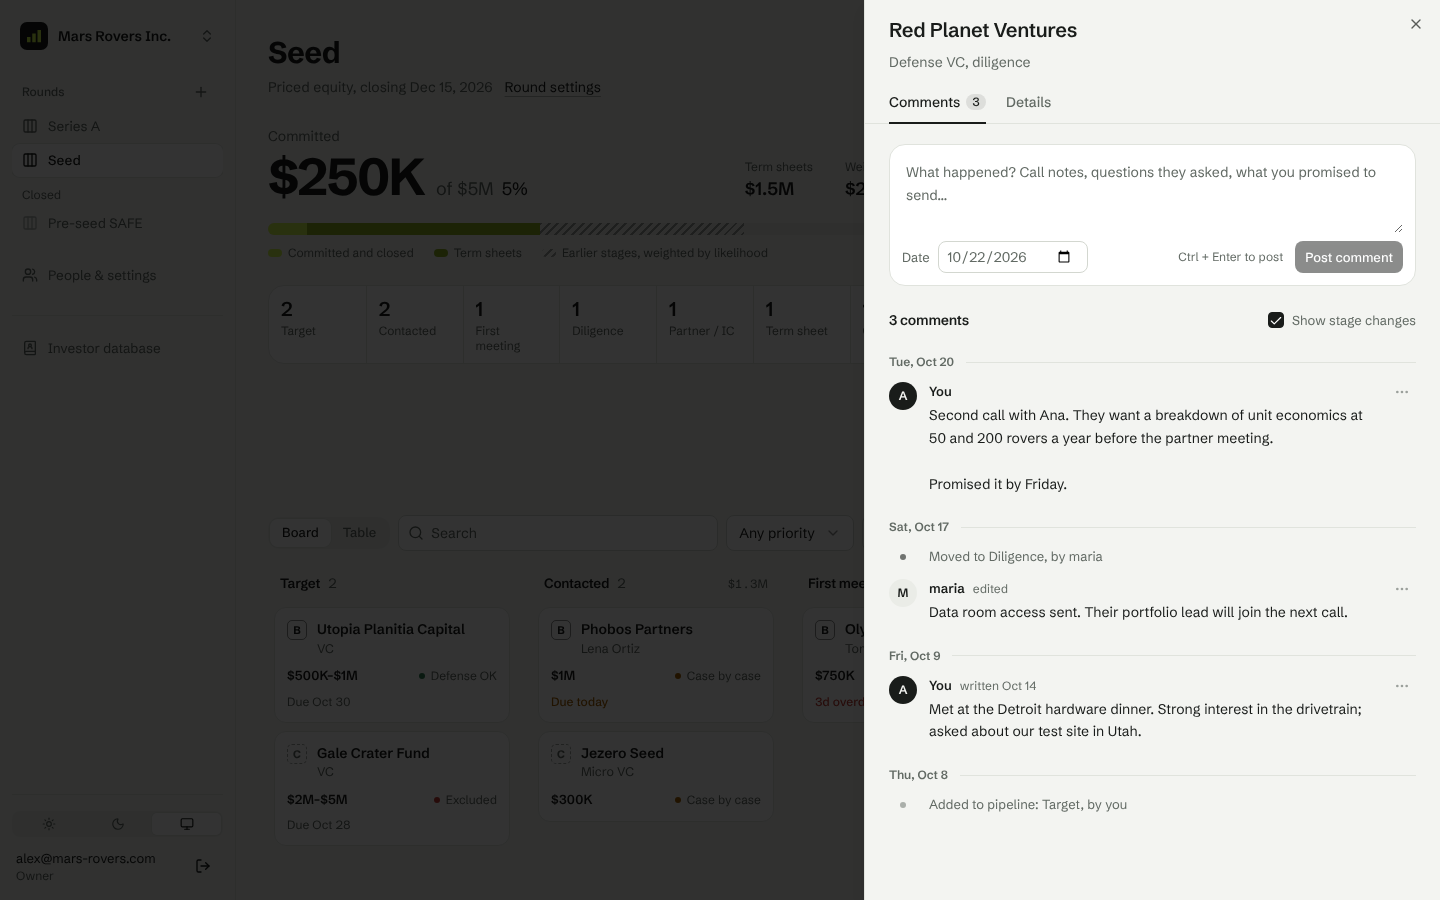
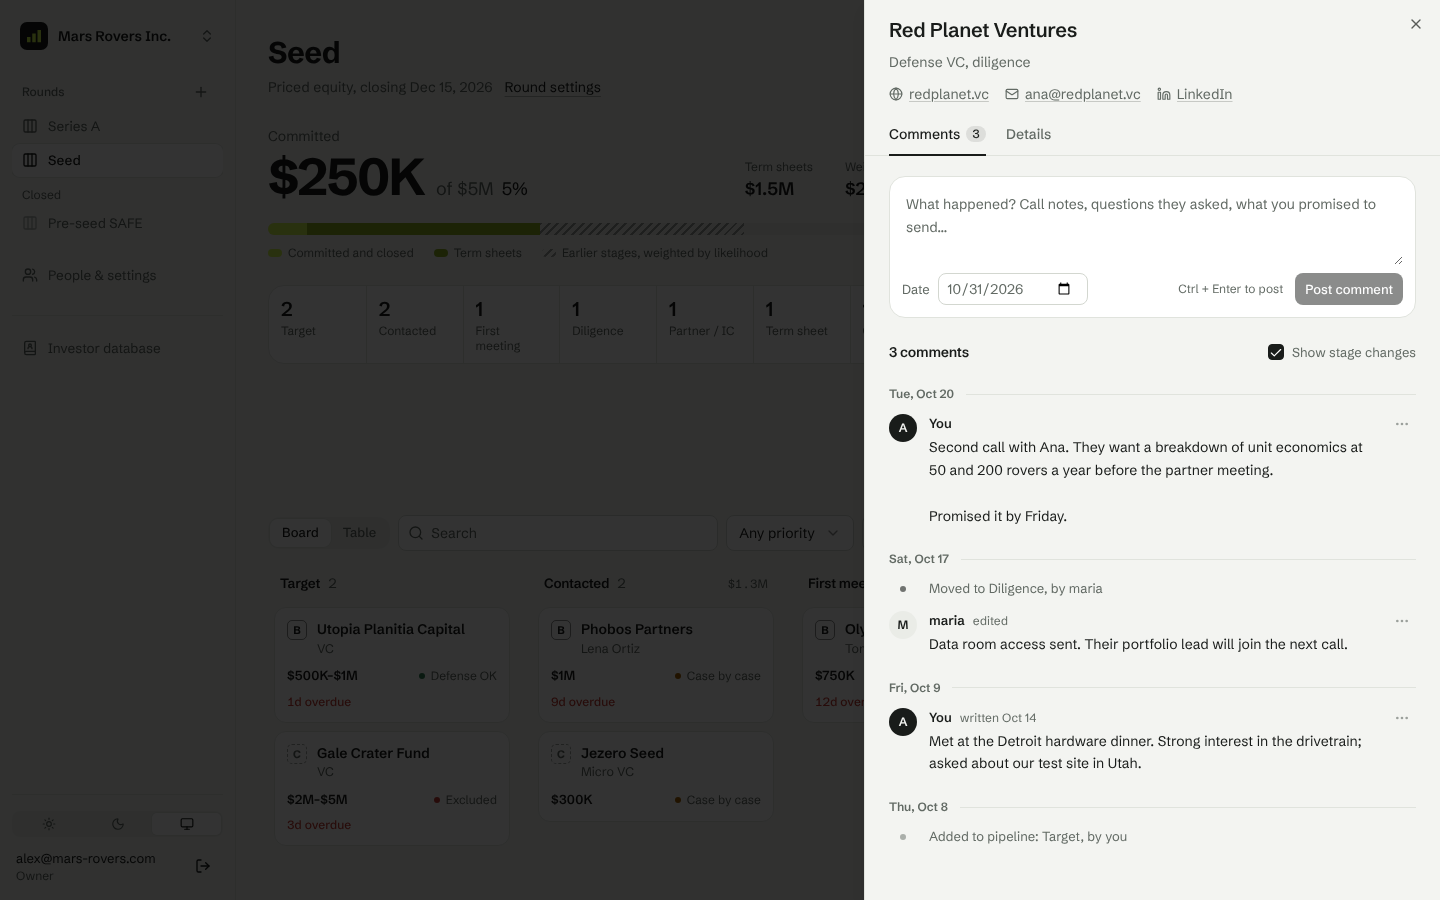
Investor website and contact LinkedIn
Pipeline investors get a website; contact people get a LinkedIn page next to
their email, in pipelines and the private investor database. Both carry over
when picking from the database, auto-saving to it and copying a round, and
show as links at the top of the investor panels.

Claude-Session: https://claude.ai/code/session_01FCj86a1STQqzPo83mB8BFF

Changed region(s): [[0.5938, 0.1867, 1.0, 0.9333], [0.5938, 0.0933, 0.8438, 0.1556]]

diff --git a/src/components/pipeline/InvestorSheet.tsx b/src/components/pipeline/InvestorSheet.tsx
@@ -26,6 +26,8 @@ import {InvestorComments} from "./InvestorComments";
 import {DatabaseNameInput} from "./DatabaseNameInput";
 import {INVESTOR_TYPES, MANDATES, parseMoney, PRIORITIES, STAGE_IDS, STAGES} from "@/lib/pipeline";
 import type {Investor, InvestorInput, MyInvestor} from "@/lib/types";
+import {linkedinHref, websiteHref} from "@/lib/websites";
+import {ContactLinks} from "@/components/ContactLinks";
 import {cn} from "@/lib/utils";
 import {useOrg} from "@/hooks/useOrg";
 import {useCurrentRound} from "@/hooks/useCurrentRound";
@@ -34,8 +36,10 @@ const money = z.string().trim().refine((v) => v === "" || parseMoney(v) > 0, "Us
 
 const schema = z.object({
     name: z.string().trim().min(1, "Add the fund or investor name"),
+    website: z.string().trim().max(500).refine((v) => v === "" || websiteHref(v) !== null, "Use an address like fund.vc"),
     partner: z.string().trim(),
     email: z.union([z.literal(""), z.string().trim().email("Enter a valid email")]),
+    linkedin: z.string().trim().max(500).refine((v) => v === "" || linkedinHref(v) !== null, "Paste a linkedin.com link"),
     type: z.string(),
     geo: z.string().trim(),
     mandate: z.enum(["yes", "open", "no", "unknown"]),
@@ -58,8 +62,10 @@ const moneyText = (n: number) => (n ? n.toLocaleString("en-US") : "");
 function toForm(inv?: Investor): FormValues {
     return {
         name: inv?.name ?? "",
+        website: inv?.website ?? "",
         partner: inv?.partner ?? "",
         email: inv?.email ?? "",
+        linkedin: inv?.linkedin ?? "",
         type: inv?.type || "VC",
         geo: inv?.geo ?? "",
         mandate: inv?.mandate ?? "unknown",
@@ -132,7 +138,9 @@ export function InvestorSheet({open, investor, canEdit, onClose}: InvestorSheetP
         setValue("name", m.name, opts);
         setValue("type", m.type || "VC", opts);
         if (m.contact_name) setValue("partner", m.contact_name, opts);
+        if (m.website) setValue("website", m.website, opts);
         if (m.contact_email) setValue("email", m.contact_email, opts);
+        if (m.contact_linkedin) setValue("linkedin", m.contact_linkedin, opts);
         if (m.min_check) setValue("check_min", String(m.min_check), opts);
         setFilledFrom(m.name);
     };
@@ -147,6 +155,7 @@ export function InvestorSheet({open, investor, canEdit, onClose}: InvestorSheetP
                 <SheetHeader className="border-b px-6 py-4 text-left">
                     <SheetTitle className="text-xl [overflow-wrap:anywhere]">{isNew ? "Add investor" : investor.name}</SheetTitle>
                     <SheetDescription>{isNew ? "Add a fund, angel or strategic to the pipeline." : `${investor.type || "Investor"}, ${STAGES.find((s) => s.id === investor.stage)?.name.toLowerCase()}`}</SheetDescription>
+                    {!isNew && <ContactLinks website={investor.website} email={investor.email} linkedin={investor.linkedin} className="pt-1"/>}
                     {!isNew && (
                         <div className="-mb-4 mt-3 flex gap-5" role="tablist" aria-label="Investor">
                             {([["comments", "Comments"], ["details", "Details"]] as const).map(([value, label]) => (
@@ -180,8 +189,9 @@ export function InvestorSheet({open, investor, canEdit, onClose}: InvestorSheetP
                                                        placeholder="e.g. Fund name" autoFocus/>
                                 ) : <Input {...register("name")} placeholder="e.g. Fund name"/>}
                             </Field>
-                            <Field label="Partner / contact"><Input {...register("partner")}/></Field>
-                            <Field label="Email" error={errors.email?.message}><Input type="email" {...register("email")}/></Field>
+                            <Field label="Website" error={errors.website?.message}>
+                                <Input {...register("website")} placeholder="fund.vc" inputMode="url"/>
+                            </Field>
                             <Field label="Type">
                                 <Controller control={control} name="type" render={({field}) => (
                                     <Select value={field.value} onValueChange={field.onChange} disabled={!canEdit}>
@@ -200,6 +210,14 @@ export function InvestorSheet({open, investor, canEdit, onClose}: InvestorSheetP
                                 )}/>
                             </Field>
                             <Field label="Intro via"><Input {...register("via")} placeholder="Warm intro source"/></Field>
+                        </Section>
+
+                        <Section title="Contact person">
+                            <Field label="Name"><Input {...register("partner")} placeholder="Partner or associate"/></Field>
+                            <Field label="Email" error={errors.email?.message}><Input type="email" {...register("email")} placeholder="name@fund.vc"/></Field>
+                            <Field label="LinkedIn" error={errors.linkedin?.message} full>
+                                <Input {...register("linkedin")} placeholder="linkedin.com/in/name" inputMode="url"/>
+                            </Field>
                         </Section>
 
                         <Section title="Deal">

diff --git a/src/pages/InvestorDatabase.tsx b/src/pages/InvestorDatabase.tsx
@@ -11,7 +11,7 @@ import {Skeleton} from "@/components/ui/skeleton";
 import {Select, SelectContent, SelectItem, SelectTrigger, SelectValue} from "@/components/ui/select";
 import {Table, TableBody, TableCell, TableHead, TableHeader, TableRow} from "@/components/ui/table";
 import {formatMoney} from "@/lib/pipeline";
-import {websiteHref, websiteLabel} from "@/lib/websites";
+import {linkedinHref, websiteHref, websiteLabel} from "@/lib/websites";
 import type {CommentStats, MyInvestor} from "@/lib/types";
 
 type SortKey = "name" | "type" | "contact" | "min_check" | "comments";
@@ -46,7 +46,7 @@ export default function InvestorDatabase() {
         const q = query.trim().toLowerCase();
         return investors
             .filter((r) => (type === "all" || r.type === type) &&
-                (!q || [r.name, r.contact_name, r.contact_email, r.website].join(" ").toLowerCase().includes(q)))
+                (!q || [r.name, r.contact_name, r.contact_email, r.contact_linkedin, r.website].join(" ").toLowerCase().includes(q)))
             .sort((a, b) => {
                 const x = sortValue(a, sort.key, stats), y = sortValue(b, sort.key, stats);
                 return (x < y ? -1 : x > y ? 1 : 0) * sort.dir;
@@ -140,12 +140,21 @@ export default function InvestorDatabase() {
                                                 <TableCell className="align-top">{r.type}</TableCell>
                                                 <TableCell className="align-top">
                                                     {r.contact_name && <div>{r.contact_name}</div>}
-                                                    {r.contact_email && (
-                                                        <a href={`mailto:${r.contact_email}`} onClick={(e) => e.stopPropagation()}
-                                                           className="text-xs text-muted-foreground hover:text-foreground hover:underline">
-                                                            {r.contact_email}
-                                                        </a>
-                                                    )}
+                                                    <div className="flex flex-wrap gap-x-3 text-xs">
+                                                        {r.contact_email && (
+                                                            <a href={`mailto:${r.contact_email}`} onClick={(e) => e.stopPropagation()}
+                                                               className="text-muted-foreground hover:text-foreground hover:underline">
+                                                                {r.contact_email}
+                                                            </a>
+                                                        )}
+                                                        {linkedinHref(r.contact_linkedin) && (
+                                                            <a href={linkedinHref(r.contact_linkedin)!} target="_blank" rel="noreferrer noopener"
+                                                               onClick={(e) => e.stopPropagation()}
+                                                               className="text-muted-foreground hover:text-foreground hover:underline">
+                                                                LinkedIn
+                                                            </a>
+                                                        )}
+                                                    </div>
                                                 </TableCell>
                                                 <TableCell className="tabular whitespace-nowrap text-right align-top">{r.min_check ? formatMoney(r.min_check) : ""}</TableCell>
                                                 <TableCell className="align-top"><CommentCount stats={stats?.get(r.id)}/></TableCell>

diff --git a/src/components/database/MyInvestorSheet.tsx b/src/components/database/MyInvestorSheet.tsx
@@ -21,7 +21,8 @@ import {
 import {CommentTimeline} from "@/components/comments/CommentTimeline";
 import {useDeleteMyInvestor, useMyCommentMutations, useMyCommentStats, useMyInvestorComments, useSaveMyInvestor} from "@/hooks/useMyInvestors";
 import {INVESTOR_TYPES, parseMoney} from "@/lib/pipeline";
-import {websiteHref} from "@/lib/websites";
+import {linkedinHref, websiteHref} from "@/lib/websites";
+import {ContactLinks} from "@/components/ContactLinks";
 import type {MyInvestor, MyInvestorInput} from "@/lib/types";
 import {cn} from "@/lib/utils";
 
@@ -31,6 +32,7 @@ const schema = z.object({
     website: z.string().trim().max(500).refine((v) => v === "" || websiteHref(v) !== null, "Use an address like fund.vc"),
     contact_name: z.string().trim().max(200),
     contact_email: z.union([z.literal(""), z.string().trim().email("Enter a valid email")]),
+    contact_linkedin: z.string().trim().max(500).refine((v) => v === "" || linkedinHref(v) !== null, "Paste a linkedin.com link"),
     min_check: z.string().trim().refine((v) => v === "" || parseMoney(v) > 0, "Use a number like 250K or 1.5M"),
 });
 type FormValues = z.infer<typeof schema>;
@@ -41,11 +43,12 @@ const toForm = (inv?: MyInvestor): FormValues => ({
     website: inv?.website ?? "",
     contact_name: inv?.contact_name ?? "",
     contact_email: inv?.contact_email ?? "",
+    contact_linkedin: inv?.contact_linkedin ?? "",
     min_check: inv?.min_check ? inv.min_check.toLocaleString("en-US") : "",
 });
 
 const toInput = (v: FormValues): MyInvestorInput => ({
-    name: v.name, type: v.type, website: v.website, contact_name: v.contact_name, contact_email: v.contact_email,
+    name: v.name, type: v.type, website: v.website, contact_name: v.contact_name, contact_email: v.contact_email, contact_linkedin: v.contact_linkedin,
     min_check: parseMoney(v.min_check),
 });
 
@@ -91,6 +94,7 @@ export function MyInvestorSheet({open, investor, onClose, onCreated}: MyInvestor
                 <SheetHeader className="border-b px-6 py-4 text-left">
                     <SheetTitle className="text-xl [overflow-wrap:anywhere]">{isNew ? "Add to your database" : investor.name}</SheetTitle>
                     <SheetDescription>{isNew ? "Only you can see your investor database." : [investor.type, investor.contact_name].filter(Boolean).join(", ")}</SheetDescription>
+                    {!isNew && <ContactLinks website={investor.website} email={investor.contact_email} linkedin={investor.contact_linkedin} className="pt-1"/>}
                     {!isNew && (
                         <div className="-mb-4 mt-3 flex gap-5" role="tablist" aria-label="Investor">
                             {([["comments", "Comments"], ["details", "Details"]] as const).map(([value, label]) => (
@@ -130,6 +134,9 @@ export function MyInvestorSheet({open, investor, onClose, onCreated}: MyInvestor
                         <Field label="Contact person"><Input {...register("contact_name")} placeholder="Partner or associate"/></Field>
                         <Field label="Contact email" error={errors.contact_email?.message}>
                             <Input type="email" {...register("contact_email")} placeholder="name@fund.vc"/>
+                        </Field>
+                        <Field label="Contact LinkedIn" error={errors.contact_linkedin?.message}>
+                            <Input {...register("contact_linkedin")} placeholder="linkedin.com/in/name" inputMode="url"/>
                         </Field>
                         <Field label="Minimum check (USD)" error={errors.min_check?.message}>
                             <Input inputMode="decimal" {...register("min_check")} placeholder="250K"/>

diff --git a/src/components/ContactLinks.tsx b/src/components/ContactLinks.tsx
@@ -1,0 +1,29 @@
+import type {ReactNode} from "react";
+import {Globe, Linkedin, Mail} from "lucide-react";
+import {linkedinHref, linkedinLabel, websiteHref, websiteLabel} from "@/lib/websites";
+import {cn} from "@/lib/utils";
+
+/** Website, email and LinkedIn as small links. Blank or unusable values are left out. */
+export function ContactLinks({website, email, linkedin, className}: {website?: string; email?: string; linkedin?: string; className?: string}) {
+    const site = website ? websiteHref(website) : null;
+    const li = linkedin ? linkedinHref(linkedin) : null;
+    const mail = email?.trim();
+    if (!site && !li && !mail) return null;
+    return (
+        <span className={cn("flex flex-wrap items-center gap-x-4 gap-y-1 text-sm", className)}>
+            {site && <LinkItem href={site} icon={<Globe/>} label={websiteLabel(website!)} external/>}
+            {mail && <LinkItem href={`mailto:${mail}`} icon={<Mail/>} label={mail}/>}
+            {li && <LinkItem href={li} icon={<Linkedin/>} label="LinkedIn" title={linkedinLabel(linkedin!)} external/>}
+        </span>
+    );
+}
+
+function LinkItem({href, icon, label, title, external}: {href: string; icon: ReactNode; label: string; title?: string; external?: boolean}) {
+    return (
+        <a href={href} title={title} onClick={(e) => e.stopPropagation()}
+           {...(external ? {target: "_blank", rel: "noreferrer noopener"} : {})}
+           className="inline-flex min-w-0 items-center gap-1.5 text-muted-foreground underline decoration-foreground/20 underline-offset-2 hover:text-foreground [&_svg]:h-3.5 [&_svg]:w-3.5 [&_svg]:shrink-0">
+            {icon}<span className="truncate">{label}</span>
+        </a>
+    );
+}

diff --git a/src/lib/websites.test.ts b/src/lib/websites.test.ts
@@ -1,6 +1,6 @@
 import {test} from "node:test";
 import assert from "node:assert/strict";
-import {websiteHref, websiteLabel} from "./websites.ts";
+import {linkedinHref, linkedinLabel, websiteHref, websiteLabel} from "./websites.ts";
 
 test("websiteHref adds a scheme and rejects junk", () => {
     assert.equal(websiteHref("redplanet.vc"), "https://redplanet.vc/");
@@ -13,4 +13,21 @@ test("websiteHref adds a scheme and rejects junk", () => {
 test("websiteLabel strips scheme, www and trailing slash", () => {
     assert.equal(websiteLabel("https://www.redplanet.vc/"), "redplanet.vc");
     assert.equal(websiteLabel("fund.com/team"), "fund.com/team");
+});
+
+test("linkedinHref accepts LinkedIn links and handles, rejects other sites", () => {
+    assert.equal(linkedinHref("linkedin.com/in/ana-ruiz"), "https://linkedin.com/in/ana-ruiz");
+    assert.equal(linkedinHref("https://www.linkedin.com/company/red-planet/"), "https://www.linkedin.com/company/red-planet/");
+    assert.equal(linkedinHref("ua.linkedin.com/in/ana"), "https://ua.linkedin.com/in/ana");
+    assert.equal(linkedinHref("ana-ruiz"), "https://www.linkedin.com/in/ana-ruiz");
+    assert.equal(linkedinHref("@ana-ruiz"), "https://www.linkedin.com/in/ana-ruiz");
+    assert.equal(linkedinHref("redplanet.vc/team"), null);
+    assert.equal(linkedinHref("notlinkedin.com/in/x"), null);
+    assert.equal(linkedinHref(""), null);
+});
+
+test("linkedinLabel shows the path", () => {
+    assert.equal(linkedinLabel("https://www.linkedin.com/in/ana-ruiz/"), "in/ana-ruiz");
+    assert.equal(linkedinLabel("linkedin.com/company/red-planet"), "company/red-planet");
+    assert.equal(linkedinLabel("ana-ruiz"), "in/ana-ruiz");
 });

diff --git a/src/lib/websites.ts b/src/lib/websites.ts
@@ -1,4 +1,4 @@
-// Website helpers for the investor database. No app imports so they can be unit-tested with plain Node.
+// Website and LinkedIn link helpers. No app imports so they can be unit-tested with plain Node.
 
 /** A link that works whether the user typed "fund.vc", "www.fund.vc" or "https://fund.vc/". Null for blank or unusable input. */
 export function websiteHref(raw: string): string | null {
@@ -17,4 +17,26 @@ export function websiteHref(raw: string): string | null {
 /** Short form for display: "fund.vc" or "fund.vc/team". */
 export function websiteLabel(raw: string): string {
     return raw.trim().replace(/^https?:\/\//i, "").replace(/^www\./i, "").replace(/\/$/, "");
+}
+
+/**
+ * A LinkedIn profile or company page. Accepts "linkedin.com/in/ana", "https://www.linkedin.com/company/fund/"
+ * or a bare handle like "ana-ruiz" (taken as a personal profile). Null for blank input or other sites.
+ */
+export function linkedinHref(raw: string): string | null {
+    const value = raw.trim().replace(/^@/, "");
+    if (!value) return null;
+    if (/^[a-z0-9][a-z0-9-]{1,99}$/i.test(value)) return `https://www.linkedin.com/in/${value}`;
+    const href = websiteHref(value);
+    if (!href) return null;
+    const host = new URL(href).hostname.toLowerCase();
+    return host === "linkedin.com" || host.endsWith(".linkedin.com") ? href : null;
+}
+
+/** Short form for display: "in/ana-ruiz" or "company/fund". */
+export function linkedinLabel(raw: string): string {
+    const href = linkedinHref(raw);
+    if (!href) return raw.trim();
+    const path = new URL(href).pathname.replace(/^\/|\/$/g, "");
+    return path || "LinkedIn";
 }

diff --git a/src/lib/types.ts b/src/lib/types.ts
@@ -27,8 +27,11 @@ export interface Investor {
     org_id: string;
     round_id: string;
     name: string;
+    website: string;
+    /** The contact person */
     partner: string;
     email: string;
+    linkedin: string;
     type: string;
     stage: StageId;
     priority: Priority;
@@ -97,12 +100,13 @@ export interface MyInvestor {
     website: string;
     contact_name: string;
     contact_email: string;
+    contact_linkedin: string;
     min_check: number;
     created_at: string;
     updated_at: string;
 }
 
-export type MyInvestorInput = Pick<MyInvestor, "name" | "type" | "website" | "contact_name" | "contact_email" | "min_check">;
+export type MyInvestorInput = Pick<MyInvestor, "name" | "type" | "website" | "contact_name" | "contact_email" | "contact_linkedin" | "min_check">;
 
 export interface MyInvestorComment {
     id: number;

diff --git a/src/lib/importExport.ts b/src/lib/importExport.ts
@@ -2,7 +2,7 @@ import {toCSV} from "./csv";
 import {STAGE_BY_ID, todayISO} from "./pipeline";
 import type {Investor} from "./types";
 
-const EXPORT_COLS: (keyof Investor)[] = ["name", "partner", "email", "type", "stage", "priority", "mandate", "check_min", "check_max", "amount", "can_lead", "via", "geo", "next_step", "next_date", "last_contact", "notes"];
+const EXPORT_COLS: (keyof Investor)[] = ["name", "website", "partner", "email", "linkedin", "type", "stage", "priority", "mandate", "check_min", "check_max", "amount", "can_lead", "via", "geo", "next_step", "next_date", "last_contact", "notes"];
 
 export function downloadInvestorsCSV(investors: Investor[], orgName: string) {
     const csv = toCSV(EXPORT_COLS as string[], investors.map((r) => EXPORT_COLS.map((c) => (c === "stage" ? STAGE_BY_ID[r.stage].name : r[c]))));

diff --git a/src/pages/Pipeline.tsx b/src/pages/Pipeline.tsx
@@ -58,7 +58,7 @@ export default function Pipeline() {
             (showPassed || r.stage !== "passed") &&
             (priority === "all" || r.priority === priority) &&
             (type === "all" || r.type === type) &&
-            (!q || [r.name, r.partner, r.via, r.notes, r.next_step, r.geo].join(" ").toLowerCase().includes(q)));
+            (!q || [r.name, r.website, r.partner, r.email, r.via, r.notes, r.next_step, r.geo].join(" ").toLowerCase().includes(q)));
     }, [investors, query, priority, type, showPassed]);
 
     const isNew = investorId === "new";

diff --git a/README.md b/README.md
@@ -38,7 +38,7 @@ Below the meter, two views of the same investors:
 Click an investor to open its panel. It has two tabs:
 
 - **Comments:** a dated timeline of notes from calls, emails and meetings, with stage changes mixed in so you can see how the deal moved.
-- **Details:** contact person, check size, mandate, intro source, next step, and so on.
+- **Details:** the investor's website, the contact person with their email and LinkedIn page, check size, mandate, intro source, next step, and so on. The website, email and LinkedIn also show as links at the top of the panel.
 
 How comments behave:
 
@@ -48,12 +48,14 @@ How comments behave:
 
 ![Investor panel with comments](docs/screenshots/investor-comments.png)
 
+![Investor details: website and contact person with email and LinkedIn](docs/screenshots/investor-details.png)
+
 ### Your private investor database
 
-**Investor database** in the sidebar is your own list of investors that you keep across companies and rounds. Each entry has a name, type, website, contact person and email, minimum check, and comments. **Only you can see it.** Teammates and organization owners can't.
+**Investor database** in the sidebar is your own list of investors that you keep across companies and rounds. Each entry has a name, type, website, contact person with their email and LinkedIn page, minimum check, and comments. **Only you can see it.** Teammates and organization owners can't.
 
-- **Saved automatically.** Every investor you add to a pipeline, including those copied into a new round, is saved to your database if it isn't there yet. Investors are matched by name, ignoring upper and lower case.
-- **Reusable.** When you add an investor to a pipeline, start typing the name and pick a match from your database. The type, contact person, email and minimum check fill in for you.
+- **Saved automatically.** Every investor you add to a pipeline, including those copied into a new round, is saved to your database if it isn't there yet. Investors are matched by name, ignoring upper and lower case. An investor that's already there isn't overwritten, but a missing website or LinkedIn page is filled in.
+- **Reusable.** When you add an investor to a pipeline, start typing the name and pick a match from your database. The type, website, contact person, email, LinkedIn and minimum check fill in for you.
 - **Separate comments.** Database comments are your private long-term notes. Pipeline comments are shared with the team and belong to one round.
 - Removing an investor from your database doesn't remove it from any pipeline.
 
@@ -111,8 +113,9 @@ You need a Supabase project, a Google Cloud OAuth client and somewhere to host s
    2. `20261020000000_investor_comments.sql`: dated comments.
    3. `20261022000000_rounds.sql`: multiple rounds per organization. If you're upgrading, the existing round settings become the first round and every investor moves into it.
    4. `20261022100000_investor_database.sql`: each user's private investor database. Investors already in pipelines are copied into their creators' databases.
+   5. `20261031000000_websites_and_linkedin.sql`: a website for every pipeline investor and a LinkedIn page for every contact person.
 
-   Migrations 2 to 4 are safe to run more than once.
+   Migrations 2 to 5 are safe to run more than once.
 
    If you have the Supabase CLI, you can instead run `supabase link --project-ref <ref>` and then `supabase db push`, which applies whatever hasn't run yet.
 
